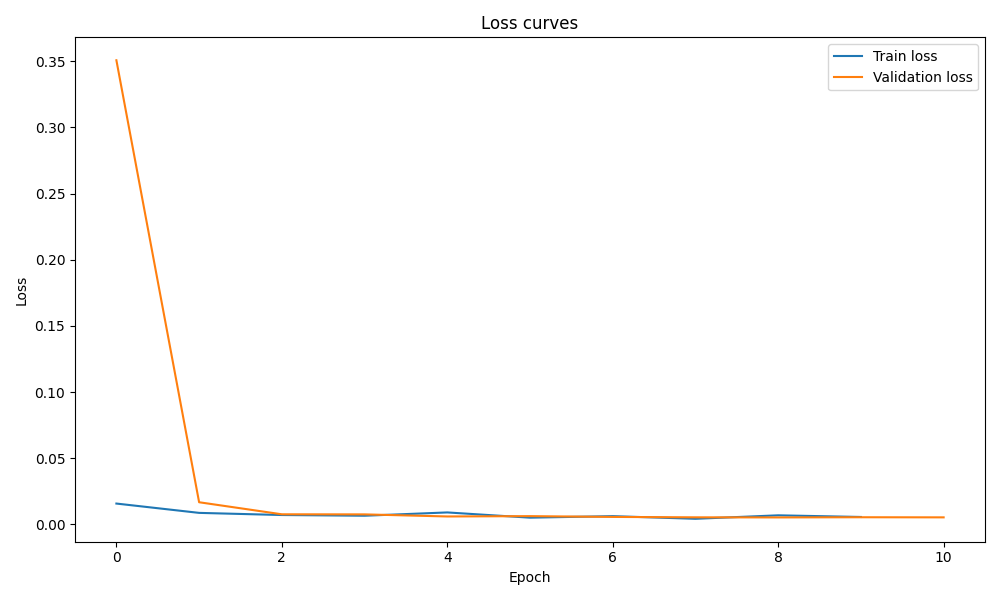
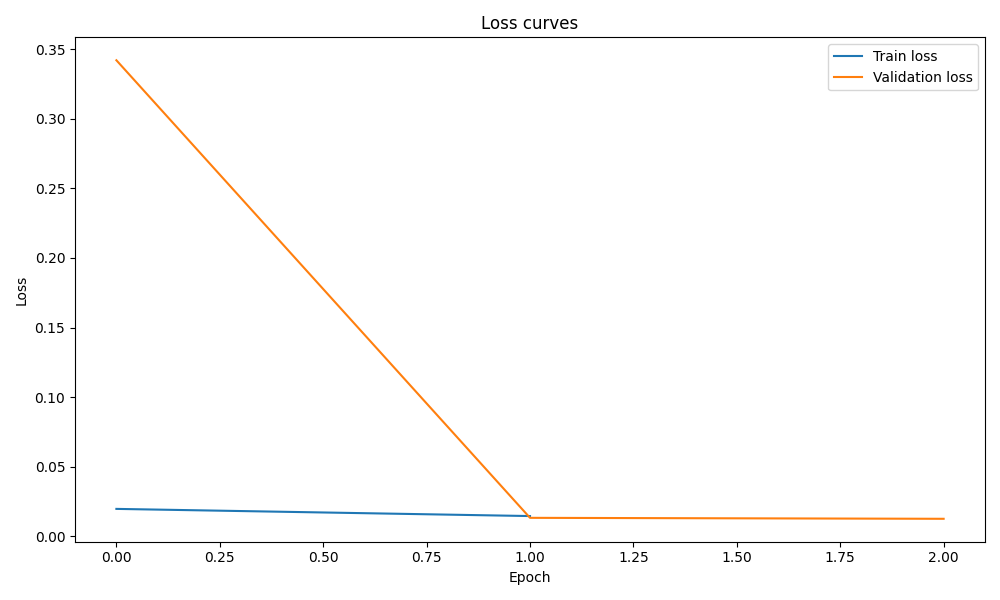
Fighting with dataloaders

diff --git a/src/models/ConvAE/ConvAE.py b/src/models/ConvAE/ConvAE.py
@@ -18,8 +18,8 @@ class Encoder(nn.Module):
         self.relu_c2 = nn.ReLU(inplace=True)
         self.pool_c2 = nn.MaxPool2d(2)
 
-        self.conv_c3 = nn.Conv2d(256, 128, 3, stride=1)
-        self.bn_c3= nn.BatchNorm2d(128)
+        self.conv_c3 = nn.Conv2d(256, 64, 3, stride=1)
+        self.bn_c3= nn.BatchNorm2d(64)
         self.relu_c3 = nn.ReLU(inplace=True)
 
     def forward(self, x):
@@ -35,7 +35,11 @@ class Decoder(nn.Module):
     def __init__(self, input_shape):
         super().__init__()
 
-        self.deconv_d1 = nn.ConvTranspose2d(512, input_shape, 15, stride=4)
+        self.deconv_d3 = nn.ConvTranspose2d(64, 256, 3, stride=1)
+        self.bn_d3_1 = nn.BatchNorm2d(256)
+        self.relu_d3 = nn.ReLU(inplace=True)
+        self.uppool_d3 = nn.Upsample(scale_factor=2, mode='nearest')
+        self.bn_d3_2 = nn.BatchNorm2d(256)
 
         self.deconv_d2 = nn.ConvTranspose2d(256, 512, 4, stride=1)
         self.bn_d2_1 = nn.BatchNorm2d(512)
@@ -43,11 +47,8 @@ class Decoder(nn.Module):
         self.uppool_d2 = nn.Upsample(scale_factor=2, mode='nearest')
         self.bn_d2_2 = nn.BatchNorm2d(512)
 
-        self.deconv_d3 = nn.ConvTranspose2d(128, 256, 3, stride=1)
-        self.bn_d3_1 = nn.BatchNorm2d(256)
-        self.relu_d3 = nn.ReLU(inplace=True)
-        self.uppool_d3 = nn.Upsample(scale_factor=2, mode='nearest')
-        self.bn_d3_2 = nn.BatchNorm2d(256)
+        self.deconv_d1 = nn.ConvTranspose2d(512, input_shape, 15, stride=4)
+
 
     def forward(self, x):
         x = self.relu_d3(self.bn_d3_1(self.deconv_d3(x)))
@@ -69,7 +70,7 @@ class ConvAE(L.LightningModule):
         self.decoder = decoder(input_shape)
 
         self.lr = lr
-        self.criterion = nn.MSELoss()
+        self.criterion = nn.MSELoss(reduction='none')
 
         self.reconstruction_error = None
         self.targets = None
@@ -83,38 +84,29 @@ class ConvAE(L.LightningModule):
         x, _ = batch
         x_hat = self(x)
         loss = self.criterion(x_hat, x)
-        self.log("train_loss", loss)
+        self.log("train_loss", loss.mean(), on_step=True, on_epoch=True, sync_dist=True)
         return loss
     
     def validation_step(self, batch, batch_idx):
         x, y = batch
         x_hat = self(x)
         loss = self.criterion(x_hat, x)
-        self.log("val_loss", loss)
+        self.log("val_loss", loss.mean(), on_step=True, on_epoch=True, sync_dist=True)
         return loss
 
     def test_step(self, batch, batch_idx):
         x, y = batch
         x_hat = self(x)
-
-        batch_errors = []
-        for xx, xx_hat in zip(x, x_hat):
-            loss = self.criterion(xx, xx_hat)
-            batch_errors.append(loss)
-
-        if self.reconstruction_error is None:
-            self.reconstruction_error = torch.tensor(batch_errors)
-        else:
-            self.reconstruction_error = torch.cat([self.reconstruction_error, torch.tensor(batch_errors)])
-
-        if self.targets is None:
-            self.targets = y
-        else:
-            self.targets = torch.cat([self.targets, y])
-
-        self.log("test_loss", torch.mean(torch.tensor(self.reconstruction_error)))
-
-        return loss
+        loss = self.criterion(x_hat, x)
+        sample_loss = loss.view(loss.size(0), -1).mean(dim=1)
+        return {'loss': sample_loss, 'targets': y}
+    
+    def test_epoch_end(self, outputs):
+        all_losses = torch.cat([o['sample_loss'] for o in outputs])
+        all_targets = torch.cat([o['target'] for o in outputs])
+        self.reconstruction_error = all_losses
+        self.targets = all_targets
+        self.log("test_loss", all_losses.mean(), on_epoch=True, sync_dist=True)
 
     def configure_optimizers(self):
         optimizer = optim.Adam(self.parameters(), lr=self.lr)

diff --git a/src/data_classes/datamodule.py b/src/data_classes/datamodule.py
@@ -14,13 +14,28 @@ class DataModule(LightningDataModule):
         self.test_dataset = Dataset(self.path_to_data, 'test')
 
     def train_dataloader(self):
-        return DataLoader(self.train_dataset, batch_size=self.batch_size, shuffle=True)
+        return DataLoader(self.train_dataset, 
+                          batch_size=self.batch_size, 
+                          shuffle=True, 
+                          num_workers=10, 
+                          pin_memory=True,
+                          persistent_workers=True)
 
     def val_dataloader(self):
-        return DataLoader(self.val_dataset, batch_size=self.batch_size, shuffle=False)
+        return DataLoader(self.val_dataset, 
+                          batch_size=self.batch_size, 
+                          shuffle=False, 
+                          num_workers=10, 
+                          pin_memory=True,
+                          persistent_workers=True)
 
     def test_dataloader(self):
-        return DataLoader(self.test_dataset, batch_size=self.batch_size, shuffle=False)
+        return DataLoader(self.test_dataset, 
+                          batch_size=self.batch_size, 
+                          shuffle=False, 
+                          num_workers=10, 
+                          pin_memory=True, 
+                          persistent_workers=True)
     
 
 if __name__ == '__main__':

diff --git a/src/data_classes/dataset.py b/src/data_classes/dataset.py
@@ -20,10 +20,10 @@ class Dataset(Dataset):
         return len(self.data)
 
     def __getitem__(self, idx):
-        img = cv2.imread(str(self.data[idx]), cv2.IMREAD_GRAYSCALE)
+        img = torch.tensor(cv2.imread(str(self.data[idx]), cv2.IMREAD_GRAYSCALE))
         if len(img.shape) == 2:
-            img = torch.tensor(img).unsqueeze(2)
-        img = torch.tensor(img).permute(2, 0, 1).float().to(DEVICE) / 255
+            img = img.unsqueeze(2)
+        img = img.permute(2, 0, 1).float() / 255.
         img = resize(img, self.resize_target)
 
         return img, self.labels[idx]

diff --git a/src/models/ConvLSTMAE/encoder_decoders.py b/src/models/ConvLSTMAE/encoder_decoders.py
@@ -49,7 +49,6 @@ class ConvDecoder(nn.Module):
                               stride=(4,4),
                               padding=0)
         self.sigmoid = nn.Sigmoid()
-        #Hout = (Hin−1)×stride[0] − 2×padding[0] + dilation[0]×(kernel_size[0]−1) + output_padding[0] + 1
     
     def forward(self, X):
         '''X: (batch_size, C, H, W)'''
@@ -57,7 +56,6 @@ class ConvDecoder(nn.Module):
         X = self.bn1(X)
         X = self.relu(X)
         X = self.deconv2(X)
-        # X = self.sigmoid(X)
         return X
 
 class ConvLSTMEncoder(nn.Module):

diff --git a/src/models/ConvLSTMAE/ConvLSTMAE.py b/src/models/ConvLSTMAE/ConvLSTMAE.py
@@ -34,8 +34,6 @@ class ConvLSTMED(nn.Module):
             in_channels = 2
         self.spatial_encoder = ConvEncoder(in_channels=in_channels, out_channels=64)
         self.spatial_decoder = ConvDecoder(in_channels=64, out_channels=in_channels)
-        # self.temporal_encoder = ConvLSTMEncoder(self.args)
-        # self.temporal_decoder = ConvLSTMDecoder(self.args)
         self.temporal_encoder = ConvLSTM(input_size=(26,26), 
                                          input_dim=64, 
                                          hidden_dim=[64, 32, 64], 

diff --git a/src/main.py b/src/main.py
@@ -11,8 +11,8 @@ from lightning import Trainer
 import mlflow
 import torch
 
-DEVICE = 'gpu' if torch.cuda.is_available() else 'cpu'
-EPOCHS = 50
+DEVICE = 'cuda' if torch.cuda.is_available() else 'cpu'
+EPOCHS = 100
 CALLBACKS = [PrintMetricsCallback(), 
              EarlyStopping(monitor='val_loss', patience=7, mode='min'), 
              ModelCheckpoint(monitor='val_loss', mode='min', save_top_k=1, dirpath='src/models/ConvAE/checkpoints/', filename='ConvAE-gray-{epoch}-{val_loss:.2f}')]
